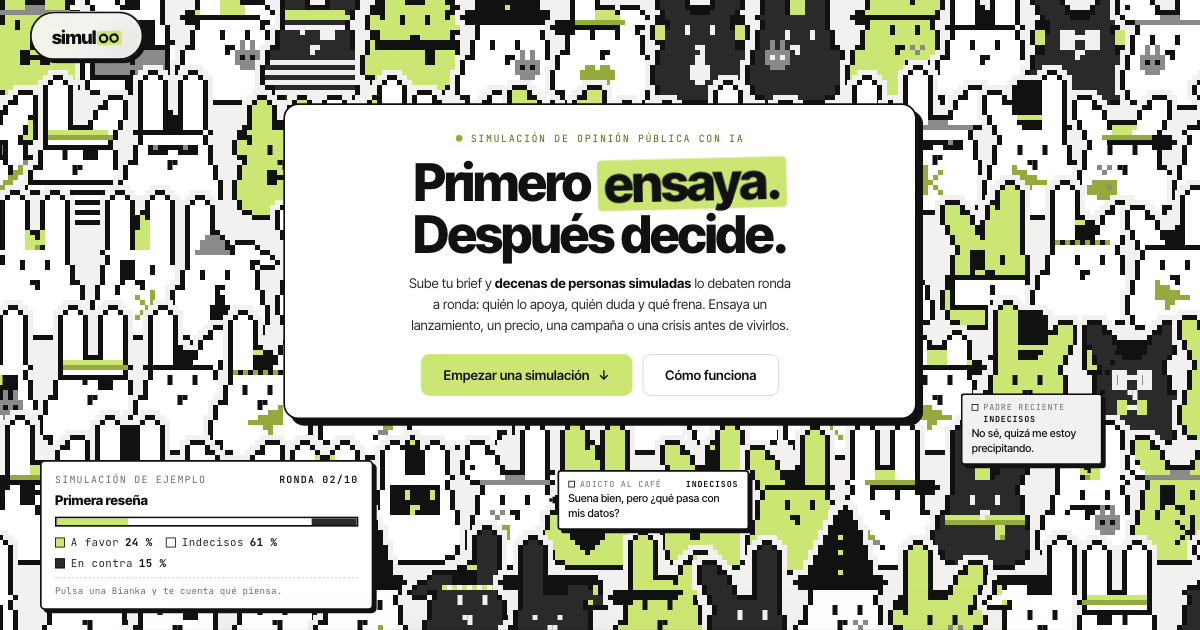
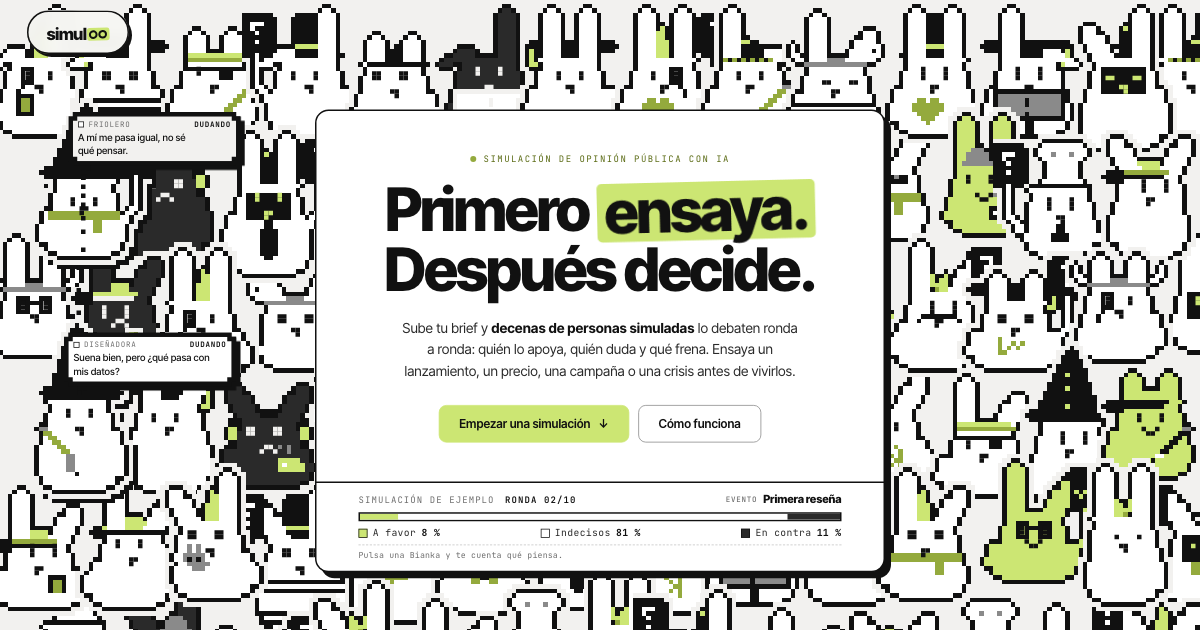
feat(landing): el marcador cuelga de la tarjeta (una sola pieza enmarcada), multitud con cambios de idea visibles y nueva imagen para compartir
- Portada: el marcador de opinión pasa a ser el pie de la tarjeta (mismo ancho, marco y sombra dura, misma animación de entrada): una pieza enmarcada en lugar de dos. Cambia el reparto visible del muro en móvil y escritorio, no el de la tarjeta.
- Muro: una de cada cuatro Biankas lleva paleta (antes una de cada tres) para aligerar la tinta.
- «La multitud»: acaba con el mismo reparto que el gráfico del informe de ejemplo (38 / 41 / 21 %); las voces enseñan el cambio de idea (de qué opinión vienen); la columna no empieza vacía; nunca dos frases iguales a la vez; cabecera que no se parte en tres líneas (en/zh/320 px); sprites precalentados.
- «Qué obtienes»: un solo acento (la tarjeta 2, lima); las demás, blancas.
- Imagen para compartir (og.png) regenerada con la portada actual.

diff --git a/frontend/src/components/OpinionCrowd.vue b/frontend/src/components/OpinionCrowd.vue
@@ -39,7 +39,10 @@
           <li v-for="m in feed" :key="m.id" class="oc-msg" :class="`is-${m.bucket}`">
             <BiankaAvatar :look="m.look" :bucket="m.bucket" :pixel="2" />
             <div class="oc-msg-text">
-              <span class="oc-who"><i class="swatch" :class="`is-${m.bucket}`"></i>{{ m.who }} · {{ m.tag }}</span>
+              <span class="oc-who">
+                <template v-if="m.from"><i class="swatch" :class="`is-${m.from}`"></i><span aria-hidden="true">→</span></template>
+                <i class="swatch" :class="`is-${m.bucket}`"></i>{{ m.who }} · {{ m.tag }}
+              </span>
               <p>{{ m.text }}</p>
             </div>
           </li>
@@ -63,7 +66,9 @@ const N = 120                 // el tope del rango publicado («20–120 persona
 const ROUNDS = 10
 const ROUND_SECS = 2.6
 const HOLD_SECS = 5
-const FINAL = { favor: 46, undecided: 40, against: 34 }   // cómo acaba el ejemplo: interesa, pero el precio genera dudas
+// Cómo acaba el ejemplo: el MISMO final que el gráfico del informe de ejemplo (OpinionChart: 38 % a favor, 41 % dudando, 21 % en contra)
+// — interesa, pero el precio genera dudas —, de modo que las dos piezas de la página cuentan la misma historia.
+const FINAL = { favor: 46, undecided: 49, against: 25 }
 const QUOTES = {
   favor: ['home.multQuoteF1', 'home.multQuoteF2', 'home.multQuoteF3', 'home.multQuoteF4'],
   undecided: ['home.multQuoteU1', 'home.multQuoteU2', 'home.multQuoteU3', 'home.multQuoteU4'],
@@ -81,7 +86,7 @@ const reduced = typeof window !== 'undefined' && !!window.matchMedia?.('(prefers
 let ctx = null, W = 0, H = 0, dpr = 1, P = 2
 let agents = []
 let tNow = 0, last = 0, raf = null, running = false, visible = false
-let speakClock = 0.6, msgSeq = 0
+let speakClock = 1.2, msgSeq = 0
 const recent = []
 let io = null, ro = null
 
@@ -168,14 +173,20 @@ const drawOne = (a, r, speaking) => {
 // ── Lo que van diciendo ────────────────────────────────────────────────────────────────────────────────
 const say = (a, r) => {
   const bucket = bucketAt(a, r)
-  const pool = QUOTES[bucket].filter(k => !recent.includes(k))
-  const key = pickOf(pool.length ? pool : QUOTES[bucket])
+  // si acaba de cambiar de idea, se ve: de qué opinión venía y que lo dice
+  const from = a.flipAt === r && a.start !== a.final ? a.start : null
+  // nunca la misma frase dos veces a la vez en pantalla; y, si se puede, tampoco una de las últimas
+  const visibleNow = new Set(feed.value.map(m => m.key))
+  const fresh = QUOTES[bucket].filter(k => !visibleNow.has(k))
+  const pool = fresh.filter(k => !recent.includes(k))
+  const key = pickOf(pool.length ? pool : fresh.length ? fresh : QUOTES[bucket])
   recent.push(key); if (recent.length > 6) recent.shift()
   a.spokeIn = r
   a.speakUntil = tNow + 1.7
   a.hopAt = tNow
-  feed.value = [{ id: ++msgSeq, look: a.look, bucket, who: t(`home.biankas.${a.look.persona}`), tag: t(TAG[bucket]), text: t(key) }, ...feed.value].slice(0, 4)
+  feed.value = [{ id: ++msgSeq, key, look: a.look, bucket, from, who: t(`home.biankas.${a.look.persona}`), tag: from ? t('home.multChanged') : t(TAG[bucket]), text: t(key) }, ...feed.value].slice(0, 4)
 }
+const primeFeed = () => { const a = pickOf(agents); say(a, round.value); say(pickOf(agents.filter(x => x !== a)), round.value) }
 const speakNext = () => {
   const r = round.value
   // primero quien acaba de cambiar de idea en esta ronda (y lo cuenta); si no, cualquiera
@@ -196,7 +207,7 @@ const tick = (ts) => {
   const dt = Math.min(0.05, (ts - last) / 1000 || 0.016); last = ts
   tNow += dt
   const span = ROUNDS * ROUND_SECS + HOLD_SECS
-  if (tNow >= span) { tNow = 0; feed.value = []; recent.length = 0; for (const a of agents) a.spokeIn = 0; setRound(1); speakClock = 0.8 }
+  if (tNow >= span) { tNow = 0; feed.value = []; recent.length = 0; for (const a of agents) a.spokeIn = 0; setRound(1); primeFeed(); speakClock = 1.2 }
   const r = Math.min(ROUNDS, Math.floor(tNow / ROUND_SECS) + 1)
   if (r !== round.value) setRound(r)
   speakClock -= dt
@@ -237,7 +248,7 @@ const prewarm = () => {
 onMounted(() => {
   seed()
   prewarm()
-  if (reduced) settle(); else { round.value = 1; recount() }
+  if (reduced) settle(); else { round.value = 1; recount(); primeFeed() }
   layout()
   ro = new ResizeObserver(() => layout()); ro.observe(canvas.value.parentElement)
   io = new IntersectionObserver(([e]) => { visible = e.isIntersecting; visible ? start() : stop() }, { threshold: 0.2 })
@@ -276,7 +287,7 @@ onUnmounted(() => { stop(); ro?.disconnect(); io?.disconnect(); document.removeE
 .oc-brief-text { font-size: clamp(1.05rem, 1.6vw, 1.3rem); font-weight: 800; letter-spacing: -0.02em; line-height: 1.15; text-wrap: balance; }
 .oc-count { display: flex; align-items: baseline; gap: 10px; }
 .oc-count-num { font-size: clamp(2.6rem, 4.4vw, 3.8rem); font-weight: 800; line-height: 0.9; letter-spacing: -0.04em; font-variant-numeric: tabular-nums; }
-.oc-count-unit { font-family: var(--kb-font-mono); font-size: 11px; letter-spacing: 0.1em; text-transform: uppercase; color: var(--kb-text-2); max-width: 11ch; line-height: 1.3; }
+.oc-count-unit { font-family: var(--kb-font-mono); font-size: 11px; letter-spacing: 0.1em; text-transform: uppercase; color: var(--kb-text-2); max-width: 24ch; line-height: 1.35; text-wrap: balance; word-break: keep-all; }
 .oc-round { display: grid; gap: 4px; justify-items: end; text-align: end; min-width: 0; }
 .oc-event { font-size: 0.95rem; font-weight: 700; letter-spacing: -0.01em; color: var(--kb-text); }
 .oc-event .oc-label { font-weight: 400; margin-inline-end: 6px; }
@@ -318,10 +329,9 @@ onUnmounted(() => { stop(); ro?.disconnect(); io?.disconnect(); document.removeE
 
 /* entra de arriba con el ritmo del píxel (escalonado); el resto baja un hueco */
 .oc-msg-enter-active { transition: opacity 0.35s steps(4, end), transform 0.35s steps(4, end); }
-.oc-msg-leave-active { transition: opacity 0.25s steps(3, end); position: absolute; inset-inline: 0; }
+.oc-msg-leave-active { display: none; }   /* la que sale desaparece sin más: nada gris que se pise con la que entra */
 .oc-msg-move { transition: transform 0.35s steps(4, end); }
 .oc-msg-enter-from { opacity: 0; transform: translateY(-14px); }
-.oc-msg-leave-to { opacity: 0; }
 
 @media (max-width: 900px) {
   .oc-head { grid-template-columns: minmax(0, 1fr) auto; }
@@ -329,11 +339,16 @@ onUnmounted(() => { stop(); ro?.disconnect(); io?.disconnect(); document.removeE
   .oc-body { grid-template-columns: minmax(0, 1fr); }
   .oc-msg:nth-child(n + 4) { display: none; }
 }
+@media (max-width: 560px) {
+  /* móvil: cada cosa en su fila (propuesta, cifra, ronda) para que ningún rótulo se parta en tres líneas */
+  .oc-head { grid-template-columns: minmax(0, 1fr); gap: 10px; }
+  .oc-round { grid-column: auto; }
+}
 @media (max-width: 480px) {
   .oc-legend { gap: 4px 14px; font-size: 12px; }
   .oc-msg p { font-size: 0.92rem; }
 }
 @media (prefers-reduced-motion: reduce) {
-  .oc-bar .seg, .oc-msg-enter-active, .oc-msg-leave-active, .oc-msg-move { transition: none; }
+  .oc-bar .seg, .oc-msg-enter-active, .oc-msg-move { transition: none; }
 }
 </style>

diff --git a/frontend/src/components/BiankaCrowd.vue b/frontend/src/components/BiankaCrowd.vue
@@ -30,7 +30,8 @@
       </div>
     </div>
 
-    <div ref="readout" class="crowd-readout" :style="{ bottom: `${bottomInset + 24}px` }">
+    <!-- El marcador cuelga de la tarjeta como su pie (mismo ancho, marco y sombra): una sola pieza enmarcada, no dos -->
+    <div ref="readout" class="crowd-readout" :class="{ 'is-attached': !!readoutPos }" :style="readoutPos ? { top: `${readoutPos.top}px`, left: `${readoutPos.left}px`, width: `${readoutPos.width}px` } : { bottom: `${bottomInset + 24}px` }">
       <div class="readout-head">
         <span class="readout-cap">{{ $t('home.crowdCaption') }}</span>
         <span class="readout-round">{{ $t('home.crowdRound') }} {{ String(round).padStart(2, '0') }}/{{ ROUNDS }}</span>
@@ -85,6 +86,7 @@ const eventLabel = ref('')
 const stats = reactive({ favor: 0, undecided: 100, against: 0 })
 const bubbles = ref([])
 const hovering = ref(false)
+const readoutPos = ref(null)   // dónde cuelga el marcador: justo bajo la tarjeta (px dentro del muro)
 const pxCss = ref('5px')   // una celda de la retícula, en px de pantalla (la usa el CSS de los bocadillos)
 
 let ctx = null
@@ -218,7 +220,15 @@ const measureAvoid = () => {
   }
   if (props.bottomInset) avoid.push({ l: 0, t: H - props.bottomInset, r: W, b: H })
   if (props.topInset) avoid.push({ l: 0, t: 0, r: W, b: props.topInset })
-  if (readout.value) avoid.push(rel(readout.value.getBoundingClientRect()))
+  if (readout.value) {
+    // el marcador va pegado bajo la tarjeta, con su ancho; su caja se calcula de la de la tarjeta (sin transformaciones)
+    const c0 = avoid[0]
+    if (props.avoidEl && c0) {
+      const pos = { top: c0.b, left: c0.l, width: c0.r - c0.l }
+      if (!readoutPos.value || readoutPos.value.top !== pos.top || readoutPos.value.left !== pos.left || readoutPos.value.width !== pos.width) readoutPos.value = pos
+      avoid.push({ l: c0.l, t: c0.b, r: c0.r, b: c0.b + readout.value.offsetHeight })
+    } else avoid.push(rel(readout.value.getBoundingClientRect()))
+  }
   for (const a of agents) a.shown = faceShown(a)
   // Las que quedan enteras detrás de la tarjeta o del marcador (opacos) o fuera del lienzo no se dibujan: no se ven
   // y, con todo el muro por detrás de la interfaz, son casi la mitad (dibujarlas solo gastaba CPU).
@@ -941,6 +951,21 @@ onUnmounted(() => {
   letter-spacing: 0.04em;
   pointer-events: none;
 }
+.crowd-readout.is-attached {
+  bottom: auto;
+  inset-inline: auto;
+  margin-inline: 0;
+  box-sizing: border-box;
+  border-top: 0;
+  border-radius: 0 0 18px 18px;
+  box-shadow: 8px 8px 0 var(--ink-950);
+  padding: 12px clamp(20px, 4vw, 56px) 14px;
+  animation: readout-rise 0.7s cubic-bezier(0.2, 0.8, 0.2, 1) 0.1s both;
+}
+@keyframes readout-rise {
+  from { opacity: 0; transform: translateY(18px); }
+  to { opacity: 1; transform: none; }
+}
 .readout-head {
   display: flex;
   flex-wrap: wrap;
@@ -989,7 +1014,8 @@ onUnmounted(() => {
 
 /* móvil: la tira ocupa el ancho, el evento baja a su fila y la pista sobra (se pulsa sin más) */
 @media (max-width: 700px) {
-  .crowd-readout { bottom: 16px; padding: 9px 14px 10px; }
+  .crowd-readout:not(.is-attached) { bottom: 16px; padding: 9px 14px 10px; }
+  .crowd-readout.is-attached { padding: 10px 14px 12px; }
   .readout-hint { display: none; }
   .readout-event { margin-inline-start: 0; flex-basis: 100%; }
 }
@@ -1007,12 +1033,13 @@ onUnmounted(() => {
   .readout-legend b { grid-column: 2; }
 }
 @media (max-width: 340px) {
-  .crowd-readout { padding-inline: 10px; }
+  .crowd-readout.is-attached { padding-inline: 12px; }
   .readout-head { font-size: 10px; letter-spacing: 0.02em; }
   .readout-legend { font-size: 10px; gap: 0 6px; }
 }
 @media (prefers-reduced-motion: reduce) {
   .crowd-bubble { animation: none; }
+  .crowd-readout.is-attached { animation: none; }
   .readout-bar .seg { transition: none; }
 }
 </style>

diff --git a/frontend/src/lib/biankaSprite.js b/frontend/src/lib/biankaSprite.js
@@ -142,7 +142,7 @@ export const EYES = [
 ]
 
 // ── Paletas de votación: lo que piensa, en alto ──────────────────────────────────────────────────────────
-// Una de cada tres Biankas levanta una paleta junto a la cabeza (sobresale de la silueta): ✓ a favor, ? dudando,
+// Una de cada cuatro Biankas levanta una paleta junto a la cabeza (sobresale de la silueta): ✓ a favor, ? dudando,
 // ✗ en contra. Cuando cambia de opinión, cambia el símbolo (el sprite se cachea por aspecto y opinión). Cae en el hueco
 // entre vecinas, por encima del hombro y fuera de la cara. Coordenadas de BASE; tablero de tinta (se ve sobre un muro de conejos blancos), 'b' = color del cuerpo.
 const PADDLE_BOARD = [[3, 21, 'kkkkkkk'], [4, 21, 'kkkkkkk'], [5, 21, 'kkkkkkk'], [6, 21, 'kkkkkkk'], [7, 21, 'kkkkkkk'], [8, 21, 'kkkkkkk'], [9, 21, 'kkkkkkk'], [10, 21, 'kkkkkkk']]
@@ -153,7 +153,7 @@ const PADDLE_SYMBOL = {
   against: [[4, 22], [4, 26], [5, 23], [5, 25], [6, 24], [7, 23], [7, 25], [8, 22], [8, 26]],                // ✗
 }
 // qué Biankas llevan paleta según el gesto que les tocó (0–4) y lo que piensan
-export const PADDLE_POSES = { favor: [1, 0, 1, 0, 1], undecided: [1, 0, 0, 1, 0], against: [1, 0, 1, 0, 1] }
+export const PADDLE_POSES = { favor: [1, 0, 0, 0, 1], undecided: [1, 0, 0, 0, 0], against: [1, 0, 0, 1, 0] }
 export const POSE_COUNT = 5
 
 // ── Siluetas ────────────────────────────────────────────────────────────────

diff --git a/frontend/src/views/Home.vue b/frontend/src/views/Home.vue
@@ -731,7 +731,7 @@ const startSimulation = () => {
   padding: clamp(28px, 4.5vw, 52px) clamp(20px, 4vw, 56px);
   background: var(--kb-surface);
   border: 2px solid var(--ink-950);
-  border-radius: 18px;
+  border-radius: 18px 18px 0 0;   /* el pie de la tarjeta es el marcador de opinión (BiankaCrowd), que cuelga de aquí */
   box-shadow: 8px 8px 0 var(--ink-950);
   text-align: center;
   animation: rise 0.7s cubic-bezier(0.2, 0.8, 0.2, 1) 0.1s both;
@@ -1259,7 +1259,6 @@ const startSimulation = () => {
     var(--kb-surface);
 }
 .deliverable.d2 .del-scene { background: radial-gradient(rgba(17, 17, 17, 0.12) 1px, transparent 1.5px) 0 0 / 12px 12px, var(--lime-500); }
-.deliverable.d3 .del-scene { background: radial-gradient(rgba(17, 17, 17, 0.09) 1px, transparent 1.5px) 0 0 / 12px 12px, var(--cream-100); }
 .del-text { display: grid; gap: 6px; padding: 18px 20px 22px; }
 .del-text strong { font-size: 1.1rem; letter-spacing: -0.01em; }
 .del-text span { font-size: 0.95rem; line-height: 1.5; color: var(--kb-text-2); text-wrap: pretty; }

diff --git a/AGENTS.md b/AGENTS.md
@@ -173,7 +173,8 @@ docker run -d \
 | `frontend/package.json` | Node.js dependencies |
 | `coolify.json` | Coolify integration config |
 | `frontend/src/views/Home.vue` | Portada: muro de Biankas, formulario en 3 pasos, «cómo funciona», informe de ejemplo, cifras, historial y cierre |
-| `frontend/src/components/BiankaCrowd.vue` | Muro de Biankas (canvas): color = opinión, conversan en bocadillos, marcador de 10 rondas |
+| `frontend/src/components/BiankaCrowd.vue` | Muro de Biankas (canvas): color = opinión, conversan en bocadillos, marcador de 10 rondas (cuelga de la tarjeta como su pie: una sola pieza enmarcada) |
+| `frontend/src/components/OpinionCrowd.vue` | Apartado «La multitud»: 120 Biankas de ejemplo que cambian de opinión ronda a ronda + «lo que van diciendo» (mismo final que el gráfico de `OpinionChart`) |
 | `frontend/src/lib/biankaSprite.js` | Motor de sprites de la Bianka (conejo en pixel art), compartido por el muro, las escenas y los avatares |
 | `frontend/src/components/Bianka{Scene,Row,Avatar}.vue`, `ReportExample.vue` | Escenas de «cómo funciona», filas que asoman, avatar con semilla y el informe de ejemplo |
 | `backend/scripts/recsys_memory.py` | Parche de memoria del recomendador de OASIS (evita el kill -9 por OOM en simulaciones largas); `RECSYS_MEMORY_PATCH=0` lo desactiva |
@@ -181,7 +182,7 @@ docker run -d \
 
 ### Al tocar la portada
 
-- Comprobar a **320, 360, 390, 768, 1000, 1366×768, 1440×900 y 1920** px, en es/en/zh y con «reducir movimiento»: sin scroll horizontal, la tarjeta nunca pisa el marcador (los portátiles de 720–800 px de alto son el caso que falla) y ningún bocadillo corta texto.
+- Comprobar a **320, 360, 390, 768, 1000, 1366×768, 1440×900 y 1920** px, en es/en/zh y con «reducir movimiento»: sin scroll horizontal, el marcador cuelga pegado bajo la tarjeta (nunca la pisa, y los portátiles de 720–800 px de alto son el caso que falla) y ningún bocadillo corta texto.
 - Las pruebas sin interfaz funcionan con una sesión de PocketBase **falsa solo en el navegador** (`localStorage.pocketbase_auth`); en producción, además, `API_AUTH_TOKEN` temporal y borrarlo al acabar.
 - Los gráficos van animados (petición expresa) y nada de interfaz debe superar 700 ms.
 - Los campos, chips y botones de contorno usan `--kb-control-line` (#858585, ≥ 3:1 sobre blanco y crema, WCAG 1.4.11); `--kb-line` y `--kb-line-strong` son para divisores, no para controles.
